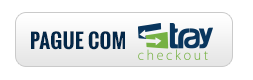
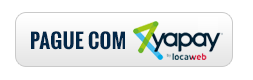
Alterações para ambiente Yapay

Changed region(s): [[0.5257, 0.25, 0.8854, 0.75]]

diff --git a/yapay_prestashop/traycheckout/traycheckout.php b/yapay_prestashop/traycheckout/traycheckout.php
@@ -238,7 +238,7 @@ class traycheckout extends PaymentModule
 			'prefixo_pedido'=>$this->l('Prefixo pedido'),
 			'atencao_ativar_teste'=>'ATENÇÃO AO ATIVAR O MODO TESTE',
 			'msg1_ativar_teste'=>'Você ainda não poderá aceitar pagamentos',
-			'msg2_ativar_teste'=>'Será necessário criar uma conta no site sandbox Yapay Intermediador (https://sandbox.traycheckout.com.br/)',
+			'msg2_ativar_teste'=>'Será necessário criar uma conta no site sandbox Yapay Intermediador. Entre em contato via e-mail integracao@yapay.com.br',
 			'msg3_ativar_teste'=>'Será necessário voltar à página do módulo Yapay Intermediador para configurar com os dados corretos antes de colocar no ar',
 			'ativar_teste'=>$this->l('Ativar Teste (Sandbox)'),
 			'ativar_redirect'=>$this->l('Ativar Yapay Intermediador via Redirect'),
@@ -404,7 +404,7 @@ class traycheckout extends PaymentModule
  
 		$total_paid			= number_format( Tools::convertPrice( $DadosOrder->total_paid, $currency), 2, '.', '');
 		if ((int)Configuration::get('traycheckout_SANDBOX') == 1)
-			$post_url = 'https://checkout.sandbox.tray.com.br/payment/transaction';
+			$post_url = 'http://tc.intermediador.sandbox.yapay.com.br/payment/transaction';
 		else
 			$post_url = 'https://checkout.tray.com.br/payment/transaction';
 			
